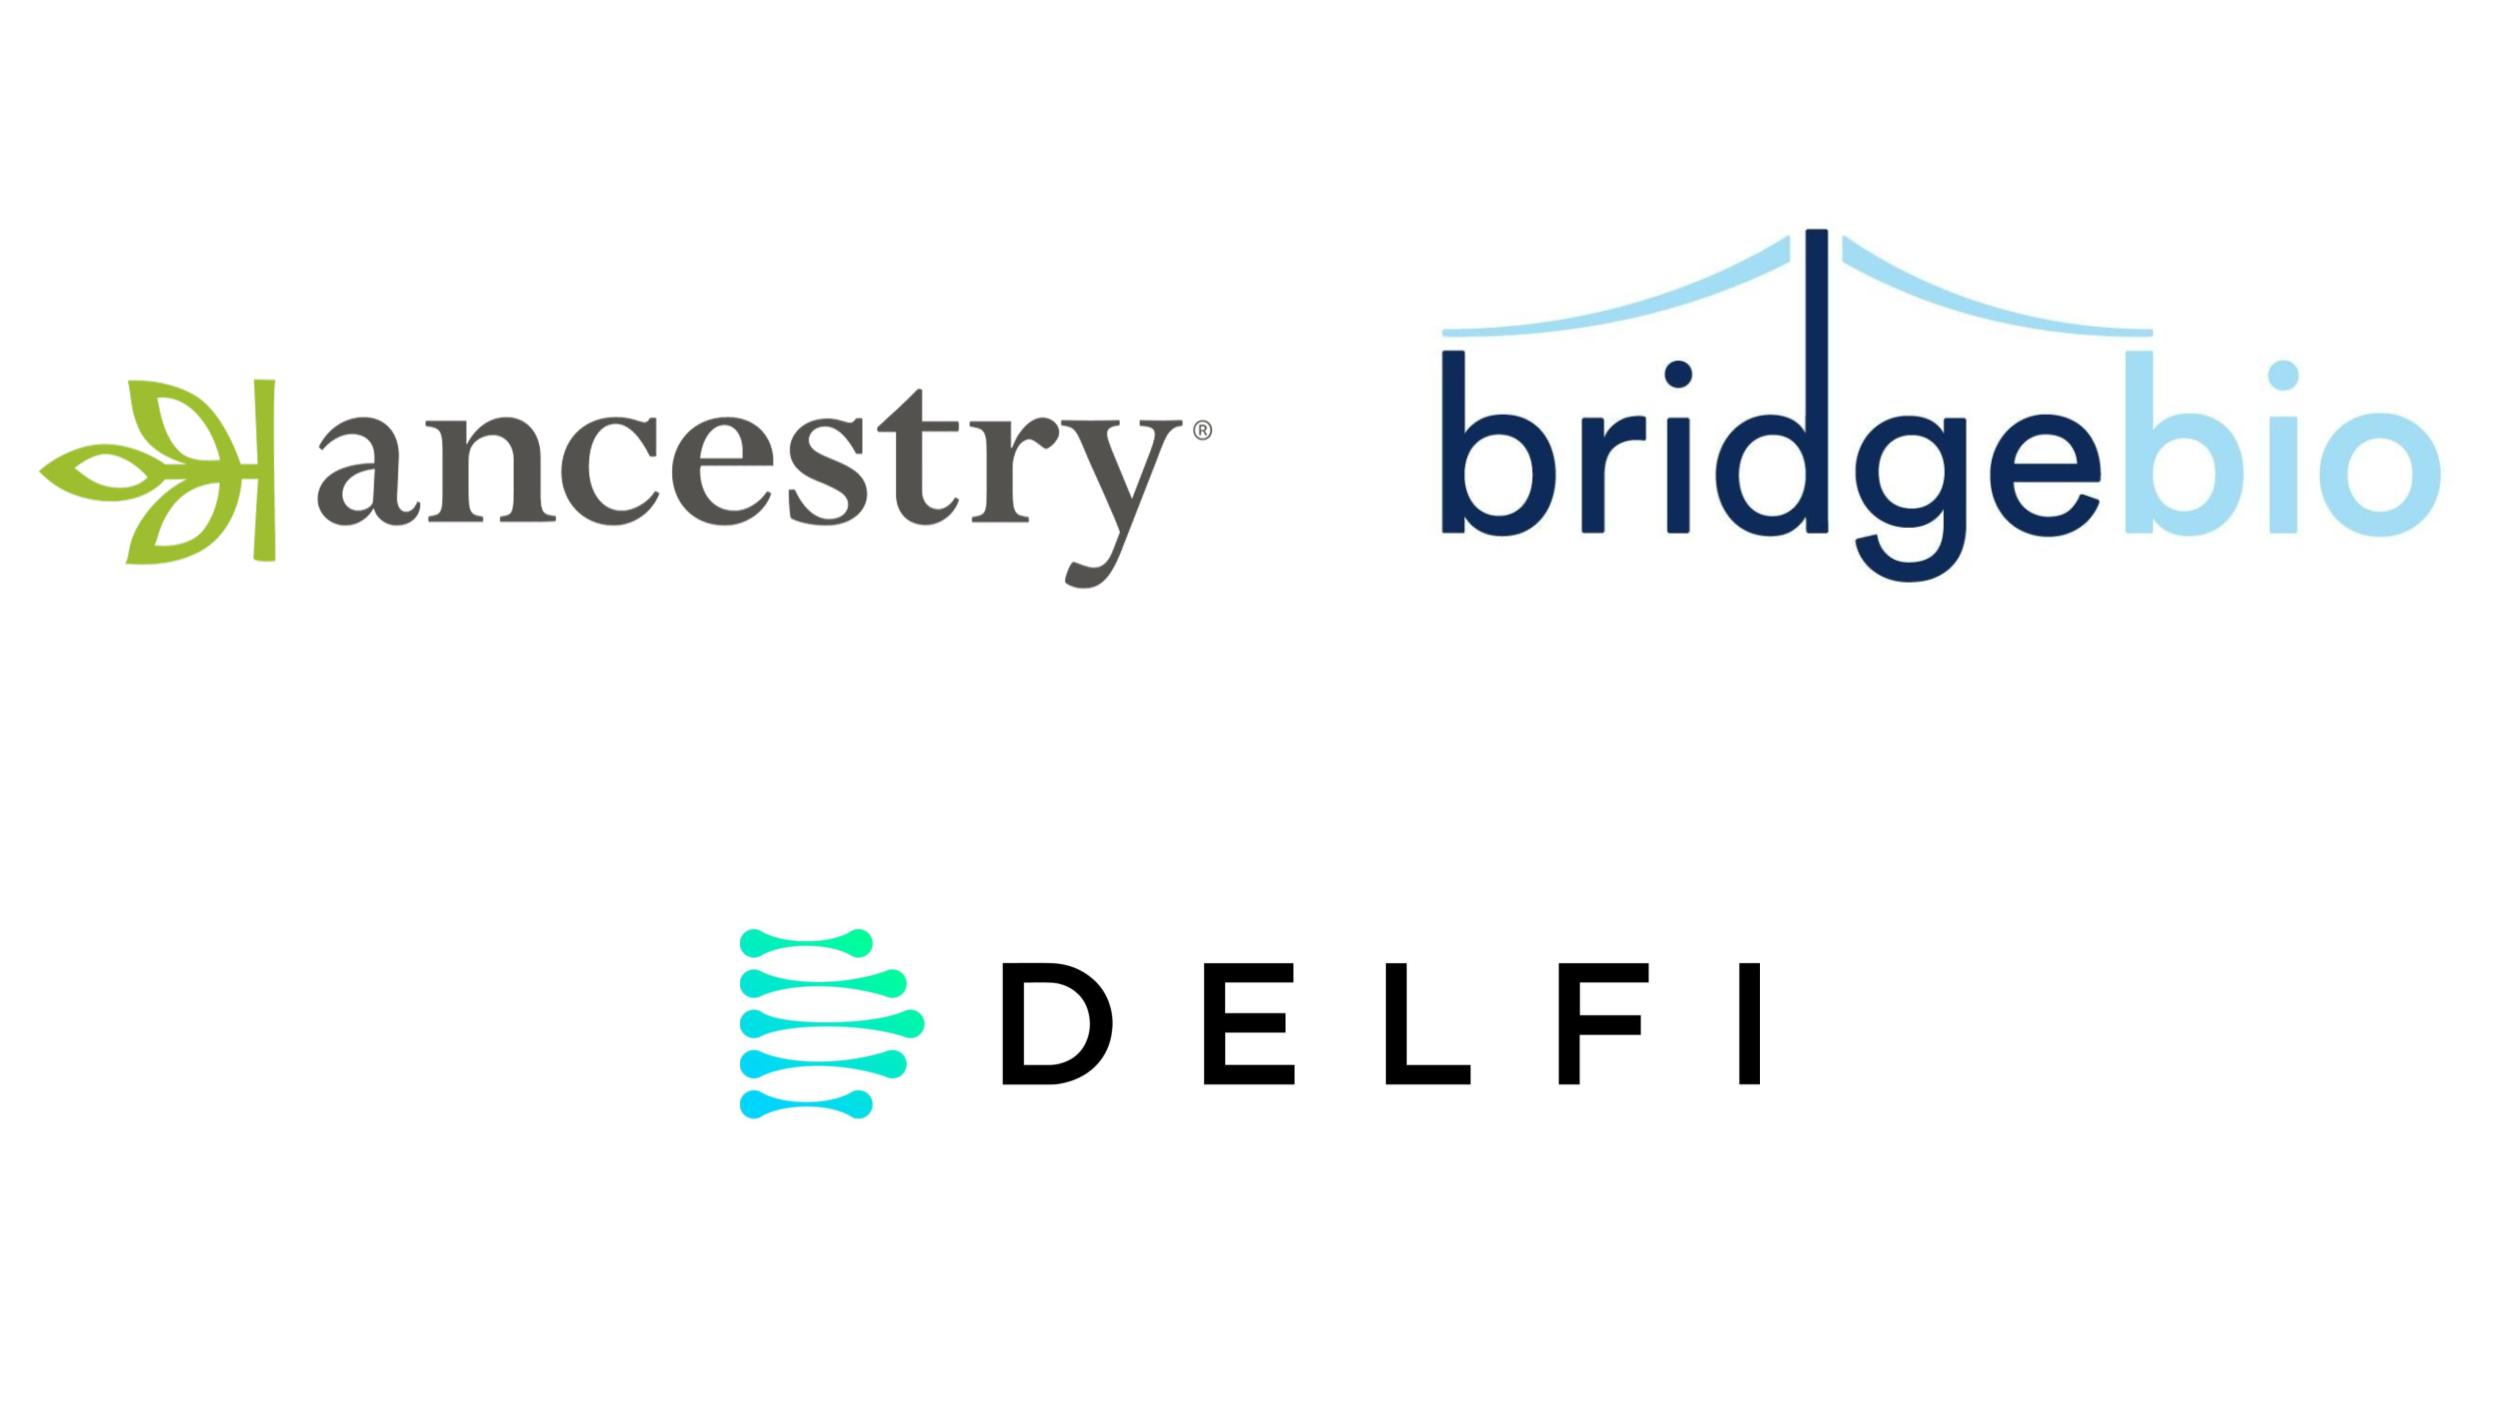
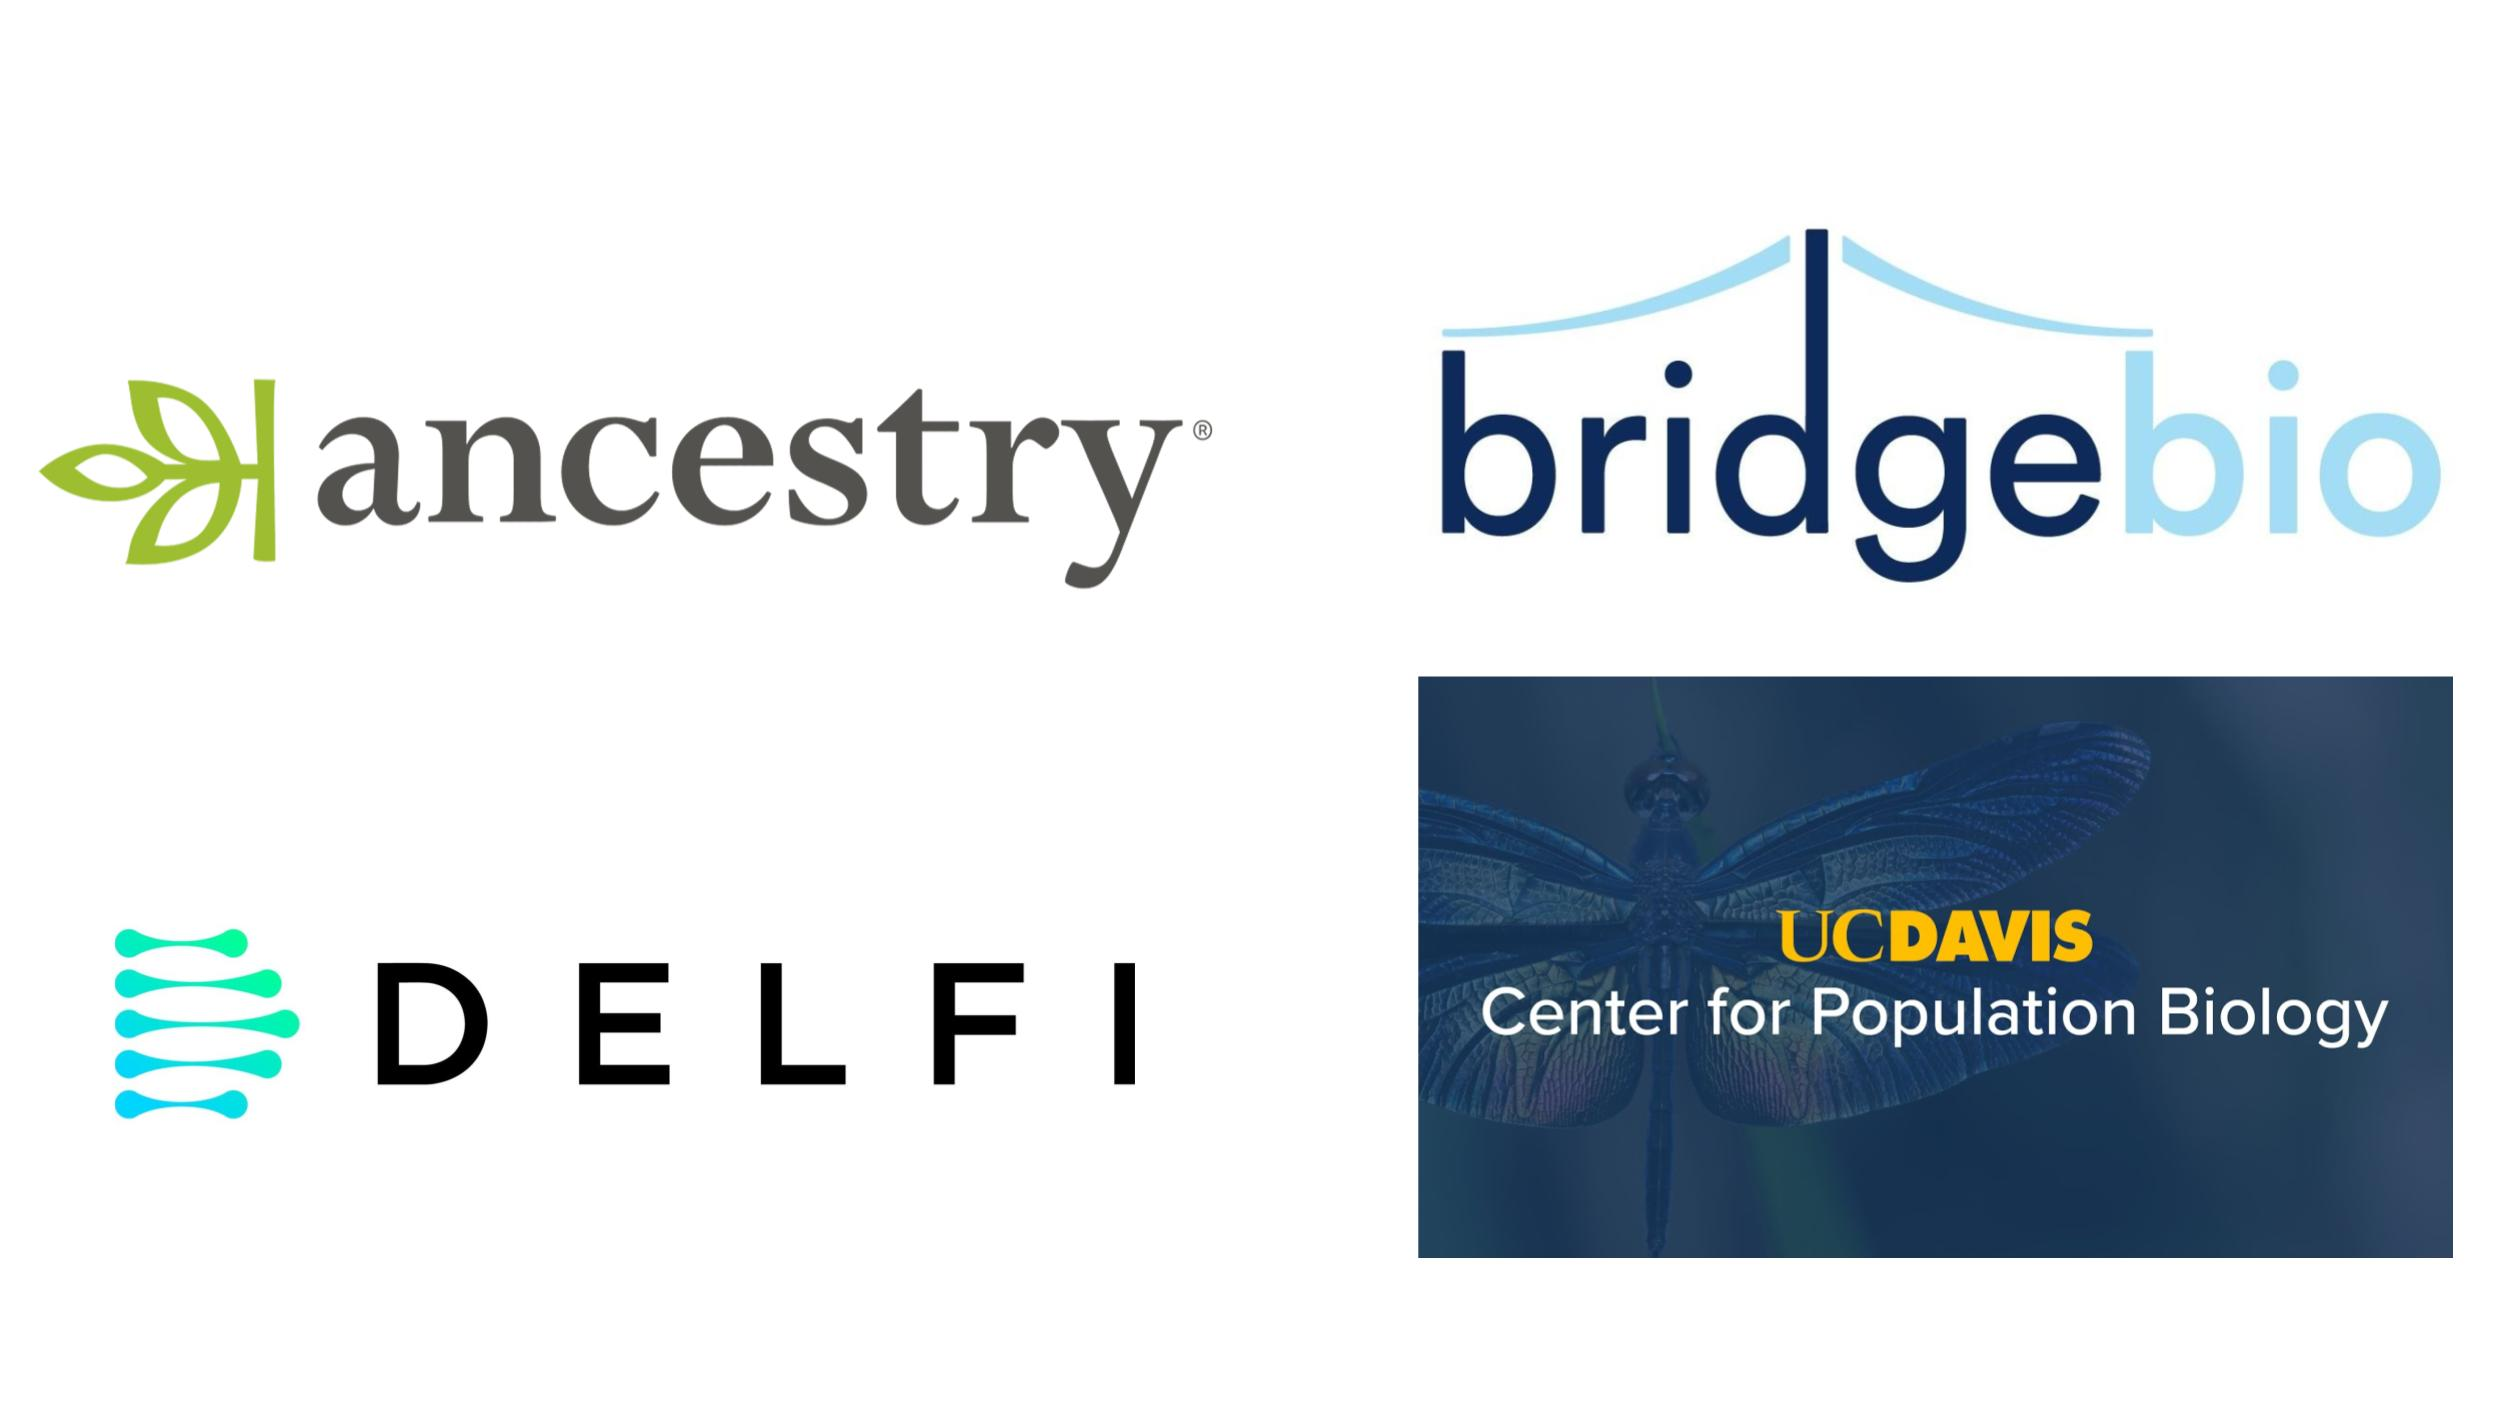
add UCD CPB as sponsor

Changed region(s): [[0.0312, 0.4587, 0.9984, 0.9175]]

diff --git a/index.md b/index.md
@@ -16,7 +16,7 @@ title: BAPG Spring 2023
 
 Welcome to the site for the 21st Bay Area Population Genomics (#BAPGXXI) Conference at UC Davis! The conference will be held May 20, 2023 on UC Davis Campus in the Atrium and Room 1322 of [Storer Hall](https://goo.gl/maps/mysWPEEg7cZozpnYA). Parking is free on campus on weekends. The closest parking structure is the [Pavilion Structure](https://goo.gl/maps/L6eDeHQgQxpu5TEcA). Registration is free (but required) and will include coffee/breakfast and lunch. **Registration and talk/poster submissions now closed.**
 
-Thank you to [Ancestry](https://www.ancestry.com), [BridgeBio Pharma](https://bridgebio.com), and [Delfi Diagnostics](https://delfidiagnostics.com) for sponsoring this conference!
+Thank you to [Ancestry](https://www.ancestry.com), [BridgeBio Pharma](https://bridgebio.com), [Delfi Diagnostics](https://delfidiagnostics.com), and the UC Davis Center for Population Biology for sponsoring this conference!
 
 {:.sponsor}
 ![Sponsors - Ancestry, BridgeBio Pharma, and Delfi Diagnostics](/images/sponsors.jpg)
